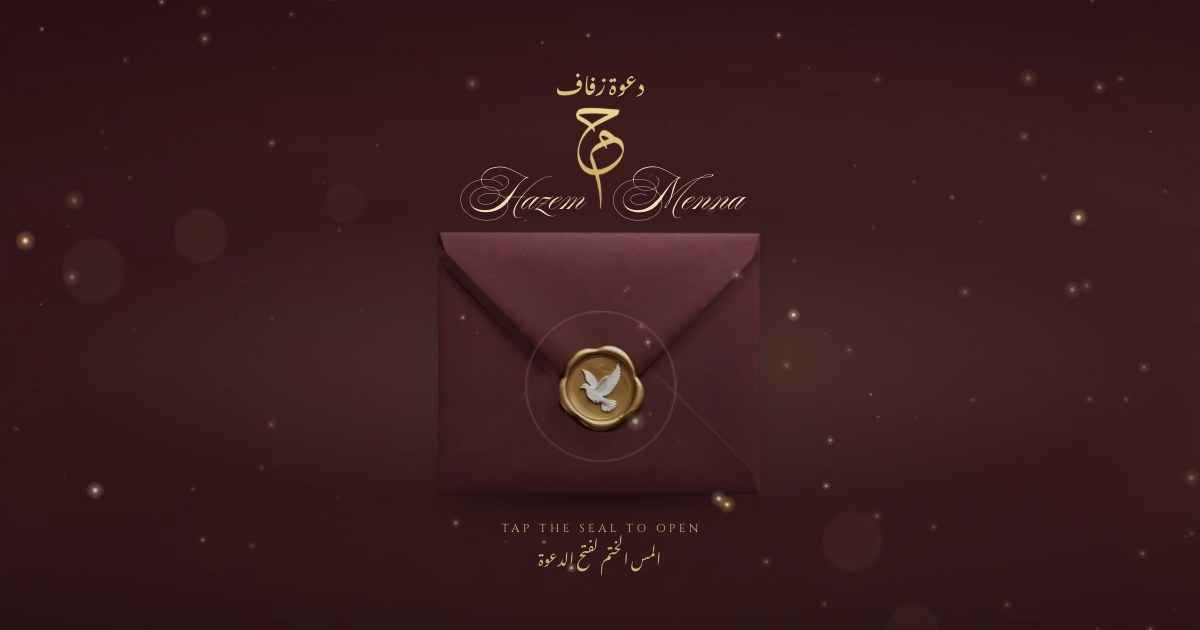
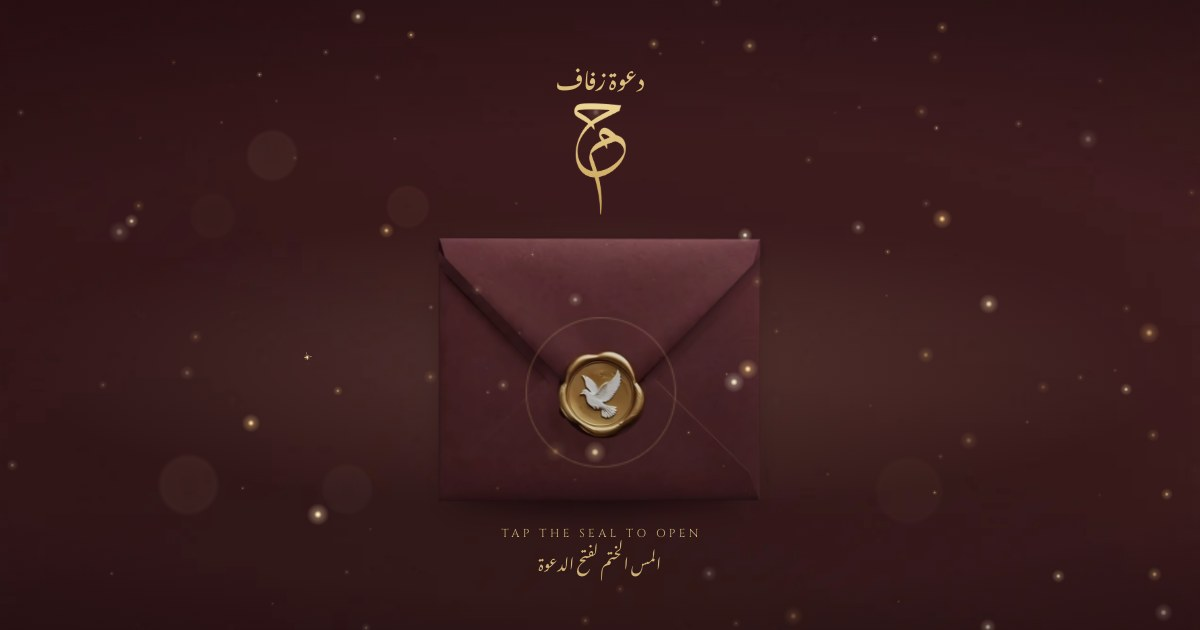
Add an elegant live countdown; cover shows only the monogram
- Countdown to Friday 20 Nov 2026, 7:00 PM Cairo (17:00 UTC): days, hours,
  minutes, seconds with English and Arabic labels in a double gold frame;
  each changing number rises softly into place. After the start time it
  reads 'Tonight is the night', and later a thank-you.
- The names no longer appear on the envelope cover; they are revealed
  inside. Link preview refreshed.

diff --git a/index.html b/index.html
@@ -9,7 +9,7 @@
 <meta property="og:description" content="Friday 20 November 2026 · 7:00 PM · El Masa Wedding Hall, Banha">
 <meta property="og:type" content="website">
 <meta property="og:url" content="https://wedding-invitation-hm.github.io/">
-<meta property="og:image" content="https://wedding-invitation-hm.github.io/og.jpg?v=5">
+<meta property="og:image" content="https://wedding-invitation-hm.github.io/og.jpg?v=6">
 <meta property="og:image:width" content="1200">
 <meta property="og:image:height" content="630">
 <meta name="twitter:card" content="summary_large_image">
@@ -127,7 +127,7 @@ img{display:block; max-width:100%; -webkit-touch-callout:none; -webkit-user-drag
 .ln{position:absolute; top:calc(var(--mh) * .705); font-family:var(--script); font-weight:400; line-height:1; white-space:nowrap; font-size:var(--nf)}
 .ln-l{right:calc(50% + var(--mh) * .036 + var(--gap,10px) + .1em)}
 .ln-r{left:calc(50% + var(--mh) * .036 + var(--gap,10px) + .1em)}
-.cover-lock{--mh:calc(var(--fw) * .27); --nf:calc(var(--fw) * .118); --gap:6px}
+.cover-lock{--mh:calc(var(--fw) * .3); --nf:calc(var(--fw) * .118); --gap:6px}
 .cover-lock .ln{color:#f1dfb8; text-shadow:0 2px 16px rgba(0,0,0,.4)}
 .card-lock{--mh:calc(var(--fh) * .4584 * .6); --nf:calc(var(--fw) * .078); --gap:5px}
 .card-lock .ln{color:var(--wine)}
@@ -185,6 +185,19 @@ img{display:block; max-width:100%; -webkit-touch-callout:none; -webkit-user-drag
 .when .big{font-family:var(--it); font-weight:400; color:var(--wine); font-size:clamp(3.3rem,15vw,4.3rem); line-height:.95; padding:0 .3em; border-left:1px solid rgba(176,141,74,.55); border-right:1px solid rgba(176,141,74,.55); font-variant-numeric:lining-nums}
 .month{font-family:var(--caps); text-transform:uppercase; letter-spacing:.36em; padding-left:.36em; font-size:clamp(.72rem,3vw,.86rem); font-weight:500; color:var(--gold-deep); margin-top:12px}
 .ar-date{font-family:var(--ar); direction:rtl; color:var(--ink-soft); font-size:clamp(.95rem,4vw,1.08rem); line-height:2.2; margin-top:2px}
+.countdown{position:relative; width:100%; max-width:340px; margin-top:clamp(28px,7vw,38px); padding:18px 10px 12px; border:1px solid rgba(176,141,74,.55); display:flex; flex-direction:column; align-items:center}
+.countdown::before{content:""; position:absolute; inset:4px; border:1px solid rgba(176,141,74,.25); pointer-events:none}
+.countdown::after{content:""; position:absolute; left:50%; top:-4px; width:7px; height:7px; margin-left:-3.5px; transform:rotate(45deg); background:var(--paper); border:1px solid var(--gold)}
+.cd-lbl{font-family:var(--it); font-style:italic; font-weight:500; color:var(--ink-soft); font-size:clamp(1.05rem,4.4vw,1.2rem); line-height:1.2}
+.cd-lbl-ar{font-family:var(--ar); color:var(--gold-deep); font-size:clamp(.86rem,3.6vw,.96rem); line-height:2}
+.cd-row{display:grid; grid-template-columns:1fr auto 1fr auto 1fr auto 1fr; align-items:stretch; width:100%; margin-top:6px}
+.cd-u{display:flex; flex-direction:column; align-items:center; min-width:0}
+.cd-n{display:inline-block; font-family:var(--it); font-weight:500; color:var(--wine); font-size:clamp(2.1rem,9.6vw,2.7rem); line-height:1.05; font-variant-numeric:lining-nums tabular-nums; will-change:transform}
+.cd-en{font-family:var(--caps); text-transform:uppercase; letter-spacing:.2em; padding-left:.2em; font-size:clamp(.5rem,2.2vw,.6rem); font-weight:500; color:var(--gold-deep); margin-top:6px}
+.cd-ar{font-family:var(--ar); color:var(--ink-soft); font-size:clamp(.78rem,3.3vw,.88rem); line-height:1.9}
+.cd-sep{width:1px; margin:6px 0 10px; background:linear-gradient(180deg,rgba(176,141,74,0),rgba(176,141,74,.6),rgba(176,141,74,0))}
+.cd-done{font-family:var(--it); font-style:italic; font-weight:500; color:var(--wine); font-size:clamp(1.2rem,5vw,1.4rem); line-height:1.5; padding:6px 0 4px; text-align:center}
+.cd-done .ar{display:block; font-family:var(--ar); font-style:normal; font-size:.9em; line-height:2}
 .venue{margin-top:clamp(22px,6vw,32px)}
 .lbl{font-family:var(--caps); text-transform:uppercase; letter-spacing:.32em; padding-left:.32em; font-size:clamp(.6rem,2.5vw,.7rem); color:var(--gold-deep); font-weight:500}
 .lbl .ar{font-family:var(--ar); letter-spacing:0; font-size:1.3em; line-height:1}
@@ -241,6 +254,16 @@ html.arm .rv-when .side{opacity:0} html.arm .rv-when .side:first-child{transform
 html.arm .rv-when.in .side{opacity:1; transform:none; transition:opacity 1s ease calc(var(--d,0s) + .7s), transform 1.2s cubic-bezier(.2,.7,.2,1) calc(var(--d,0s) + .7s)}
 html.arm .rv-when .big{opacity:0; transform:scale(1.18)}
 html.arm .rv-when.in .big{opacity:1; transform:none; transition:opacity 1.2s ease calc(var(--d,0s) + .35s), transform 1.6s cubic-bezier(.2,.7,.2,1) calc(var(--d,0s) + .35s)}
+/* countdown: the frame opens from the centre, the units rise one by one */
+html.arm .rv-count{clip-path:inset(-8px 50% -8px 50%)}
+html.arm .rv-count.in{clip-path:inset(-8px -4px -8px -4px); transition:clip-path 1.5s cubic-bezier(.65,.05,.25,1) var(--d,0s)}
+html.arm .rv-count .cd-lbl,html.arm .rv-count .cd-lbl-ar,html.arm .rv-count .cd-u,html.arm .rv-count .cd-sep{opacity:0; transform:translateY(12px)}
+html.arm .rv-count.in .cd-lbl,html.arm .rv-count.in .cd-lbl-ar,html.arm .rv-count.in .cd-u,html.arm .rv-count.in .cd-sep{opacity:1; transform:none; transition:opacity 1s ease var(--cd), transform 1.2s cubic-bezier(.2,.7,.2,1) var(--cd)}
+html.arm .rv-count .cd-lbl{--cd:calc(var(--d,0s) + .5s)} html.arm .rv-count .cd-lbl-ar{--cd:calc(var(--d,0s) + .65s)}
+html.arm .rv-count .cd-u:nth-child(1){--cd:calc(var(--d,0s) + .85s)} html.arm .rv-count .cd-sep:nth-child(2){--cd:calc(var(--d,0s) + .95s)}
+html.arm .rv-count .cd-u:nth-child(3){--cd:calc(var(--d,0s) + 1.05s)} html.arm .rv-count .cd-sep:nth-child(4){--cd:calc(var(--d,0s) + 1.15s)}
+html.arm .rv-count .cd-u:nth-child(5){--cd:calc(var(--d,0s) + 1.25s)} html.arm .rv-count .cd-sep:nth-child(6){--cd:calc(var(--d,0s) + 1.35s)}
+html.arm .rv-count .cd-u:nth-child(7){--cd:calc(var(--d,0s) + 1.45s)}
 /* venue lines rise in turn */
 html.arm .rv-stag > *{opacity:0; transform:translateY(14px)}
 html.arm .rv-stag.in > *{opacity:1; transform:none; transition:opacity 1s ease var(--sd), transform 1.2s cubic-bezier(.2,.7,.2,1) var(--sd)}
@@ -289,7 +312,7 @@ html.arm .frame-line{opacity:0} html.arm .paper.lit .frame-line{opacity:1; trans
 @keyframes scShimmer{0%{background-position:100% 0} 55%,100%{background-position:0 0}}
 
 @media (prefers-reduced-motion:reduce){
-  html.arm .rv,html.arm .rv *,html.arm .rv-lines .l,html.arm .rv-words .w,html.arm .rv-rule *,html.arm .rv-when,html.arm .rv-when *,html.arm .rv-stag > *,html.arm .fl,html.arm .map .route,html.arm .map .pin,html.arm .rv-write,html.arm .rv-write svg,html.arm .inv-lock *{transition:none!important; animation:none!important}
+  html.arm .rv,html.arm .rv *,html.arm .rv-lines .l,html.arm .rv-words .w,html.arm .rv-rule *,html.arm .rv-when,html.arm .rv-when *,html.arm .rv-count,html.arm .rv-count *,html.arm .rv-stag > *,html.arm .fl,html.arm .map .route,html.arm .map .pin,html.arm .rv-write,html.arm .rv-write svg,html.arm .inv-lock *{transition:none!important; animation:none!important}
   .scroll-cue *{animation:none!important}
 }
 
@@ -336,7 +359,7 @@ html.arm .frame-line{opacity:0} html.arm .paper.lit .frame-line{opacity:1; trans
   </div>
   <div class="cover-title" id="coverTitle"><div class="ct-in">
     <span class="ct-ar">دعوة زفاف</span>
-    <div class="lockup cover-lock"><div class="mono-wrap"><img src="monogram-gold.webp" alt="م ح"></div><span class="ln ln-l">Hazem</span><span class="ln ln-r">Menna</span></div>
+    <div class="lockup cover-lock"><div class="mono-wrap"><img src="monogram-gold.webp" alt="م ح"></div></div>
   </div></div>
   <div class="cover-hint" id="coverHint"><div class="ch-in">
     <span>Tap the seal to open</span>
@@ -387,6 +410,13 @@ html.arm .frame-line{opacity:0} html.arm .paper.lit .frame-line{opacity:1; trans
       </div>
       <div class="month rv">November 2026</div>
       <div class="ar-date rv">الجمعة ٢٠ نوفمبر ٢٠٢٦ · السابعة مساءً</div>
+
+      <div class="countdown rv-count" id="countdown" role="timer" aria-label="Countdown to the wedding — العد التنازلي">
+        <div class="cd-lbl">Counting down to forever</div>
+        <div class="cd-lbl-ar">العد التنازلي لليلة العمر</div>
+        <div class="cd-row"><div class="cd-u"><span class="cd-n" data-u="d">00</span><span class="cd-en">Days</span><span class="cd-ar">أيام</span></div><i class="cd-sep"></i><div class="cd-u"><span class="cd-n" data-u="h">00</span><span class="cd-en">Hours</span><span class="cd-ar">ساعات</span></div><i class="cd-sep"></i><div class="cd-u"><span class="cd-n" data-u="m">00</span><span class="cd-en">Minutes</span><span class="cd-ar">دقائق</span></div><i class="cd-sep"></i><div class="cd-u"><span class="cd-n" data-u="s">00</span><span class="cd-en">Seconds</span><span class="cd-ar">ثوانٍ</span></div></div>
+        <div class="cd-done" hidden></div>
+      </div>
 
       <div class="venue rv-stag">
         <div class="lbl">Venue &nbsp;·&nbsp; <span class="ar">المكان</span></div>
@@ -549,6 +579,27 @@ var startMusic=function(){};
   });
 })();
 
+/* ---------- countdown to Friday 20 November 2026, 7:00 PM Cairo time ---------- */
+(function(){
+  var T=Date.UTC(2026,10,20,17,0,0), box=document.getElementById('countdown'); if(!box) return;
+  var els={}, last={};
+  [].forEach.call(box.querySelectorAll('.cd-n'),function(n){ els[n.getAttribute('data-u')]=n });
+  function pad(v){ return v<10?'0'+v:''+v }
+  function set(k,v){
+    if(last[k]===v) return; var first=last[k]===undefined; last[k]=v; els[k].textContent=v;
+    if(!first&&!REDUCE&&els[k].animate) els[k].animate([{transform:'translateY(.35em)',opacity:0,filter:'blur(2px)'},{transform:'none',opacity:1,filter:'blur(0)'}],{duration:620,easing:'cubic-bezier(.2,.7,.2,1)'});
+  }
+  function done(en,ar){ var d=box.querySelector('.cd-done'); box.querySelector('.cd-row').hidden=true; d.hidden=false; d.innerHTML=en+'<span class="ar">'+ar+'</span>' }
+  function tick(){
+    var ms=T-Date.now();
+    if(ms<=0){ if(ms>-6*3600e3) done('Tonight is the night','الليلة ليلة العمر'); else done('Thank you for celebrating with us','شكرًا لمشاركتكم فرحتنا'); return false }
+    var s=Math.floor(ms/1000);
+    set('d',pad(Math.floor(s/86400))); set('h',pad(Math.floor(s%86400/3600))); set('m',pad(Math.floor(s%3600/60))); set('s',pad(s%60));
+    return true;
+  }
+  if(tick()) (function loop(){ setTimeout(function(){ if(tick()) loop() },1000-Date.now()%1000+15) })();
+})();
+
 /* ---------- cover: living 3D (idle float + finger/tilt parallax) and the opening ---------- */
 (function(){
   var $=function(id){return document.getElementById(id)};
@@ -633,7 +684,7 @@ var startMusic=function(){};
       });
     });
     $('paper').classList.add('lit');
-    var items=[].slice.call(document.querySelectorAll('.rv,.fl,.inv-lock,.rv-write,.rv-lines,.rv-words,.rv-rule,.rv-when,.rv-stag')), vh=innerHeight, i=0;
+    var items=[].slice.call(document.querySelectorAll('.rv,.fl,.inv-lock,.rv-write,.rv-lines,.rv-words,.rv-rule,.rv-when,.rv-stag,.rv-count')), vh=innerHeight, i=0;
     items.forEach(function(el){ var r=el.getBoundingClientRect(); if(r.top<vh*.92){ if(!el.style.getPropertyValue('--d')) el.style.setProperty('--d',(.12+i*.1).toFixed(2)+'s'); i++; el.classList.add('in') } });
     if('IntersectionObserver' in window){
       var io=new IntersectionObserver(function(es){ es.forEach(function(e){ if(e.isIntersecting){ e.target.classList.add('in'); io.unobserve(e.target) } }) },{rootMargin:'0px 0px -8% 0px',threshold:.12});
